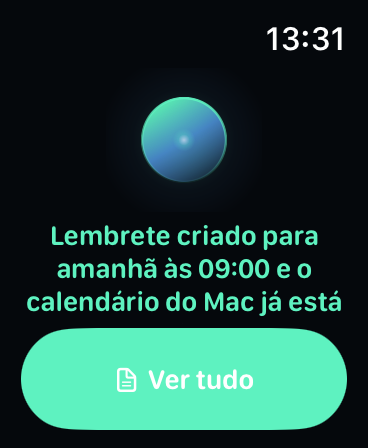
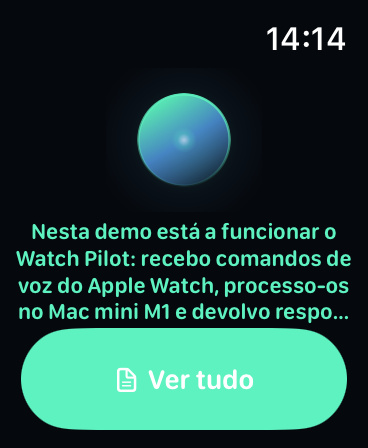
test(watch): run the simulator against a live hub task

Changed region(s): [[0.0299, 0.5, 0.9565, 0.7188], [0.3587, 0.1875, 0.6277, 0.4375], [0.7473, 0.0625, 0.9565, 0.125]]

diff --git a/apps/watch/WatchPilot/State/AssistantController.swift b/apps/watch/WatchPilot/State/AssistantController.swift
@@ -15,6 +15,10 @@ final class AssistantController {
     private(set) var lastLatencyMilliseconds: Int?
     private(set) var usedBackend: String?
 
+    /// When true, a completed task does not ask for notification permission — used by
+    /// `scripts/screenshot-states.sh` so the system alert does not cover the UI.
+    var suppressPermissionPrompt = false
+
     /// Survives a suspend/resume cycle so the orb reattaches to a running task.
     private(set) var activeTaskID: String? {
         didSet { UserDefaults.standard.set(activeTaskID, forKey: Self.taskDefaultsKey) }
@@ -209,6 +213,12 @@ final class AssistantController {
             RuntimeCoordinator.shared.stopExtendedRuntime()
             let coordinator = RuntimeCoordinator.shared
             Task {
+                #if DEBUG
+                if self.suppressPermissionPrompt {
+                    coordinator.postLocalNotification(title: "Watch Pilot", body: String(lastReply.prefix(140)))
+                    return
+                }
+                #endif
                 await coordinator.requestPermissionIfNeeded()
                 coordinator.postLocalNotification(
                     title: "Watch Pilot",
@@ -257,6 +267,20 @@ final class AssistantController {
             phase = .failed(message: "Mac mini inacessível: ligação recusada")
         default:
             phase = .idle
+        }
+    }
+
+    /// Attach to a task that already exists on the hub (created by the CLI), so a
+    /// simulator run can show genuine progress and a genuine answer.
+    func attachToTask(_ id: String) {
+        activeTaskID = id
+        Task { [weak self] in
+            guard let self else { return }
+            if let status = try? await self.client.progress(taskID: id) {
+                self.apply(status)
+                if status.isFinished { return }
+            }
+            self.startPolling(taskID: id)
         }
     }
 

diff --git a/apps/watch/WatchPilot/UI/ContentView.swift b/apps/watch/WatchPilot/UI/ContentView.swift
@@ -46,6 +46,12 @@ struct ContentView: View {
             if arguments.contains("-WPLiveSmoke") {
                 Task { await controller.runLiveSmokeTest() }
             }
+            if arguments.contains("-WPNoNotifications") {
+                controller.suppressPermissionPrompt = true
+            }
+            if let index = arguments.firstIndex(of: "-WPAttachTask"), index + 1 < arguments.count {
+                controller.attachToTask(arguments[index + 1])
+            }
             #endif
         }
         .sheet(isPresented: $showDetails) { SessionDetailsView() }

diff --git a/docs/DESIGN.md b/docs/DESIGN.md
@@ -82,3 +82,9 @@ Rendered from the simulator with `scripts/screenshot-states.sh`:
 | --- | --- | --- |
 | ![idle](design/screenshots/01-idle.png) | ![listening](design/screenshots/02-listening.png) | ![thinking](design/screenshots/03-thinking.png) |
 | ![answer](design/screenshots/04-answer.png) | ![error](design/screenshots/05-error.png) | ![hub](design/screenshots/06-live-hub.png) |
+
+`07-real-progress.png` é diferente das restantes: o app foi lançado com
+`-WPAttachTask <id>` e está a seguir uma tarefa **real** no hub (o texto "Ouvi: …"
+é a transcrição verdadeira e os 45 % são o estado verdadeiro da tarefa). As imagens
+01–05 usam `-WPDemoPhase <estado>` para congelar o orbe num estado; a 06 é a prova de
+ligação por TOTP dentro do watchOS.
